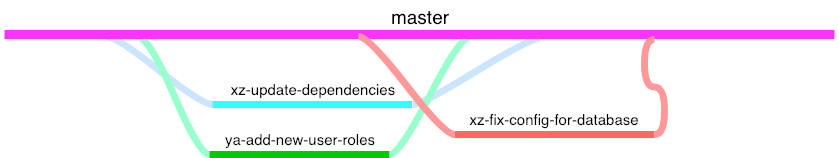
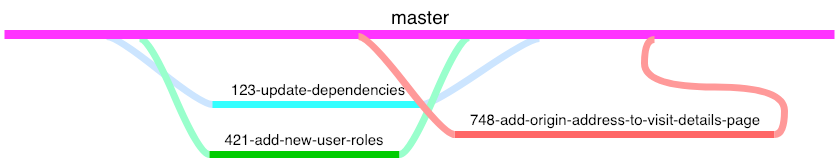
Add Out of Flow explanation

Changed region(s): [[0.2479, 0.2785, 0.6198, 1.0], [0.5578, 0.4304, 0.9607, 0.8861]]

diff --git a/resources/git_workflow.md b/resources/git_workflow.md
@@ -67,7 +67,7 @@ Where `dddd` stands for Story Card in Kanban Flow, check some examples of naming
 
 #### User Story task cards
 
-Then we pull a card to work on in `KanbanFlow`, we ignore number of it, then we create a branch with the following pattern using story branch as base:
+Then we pull a card to work on in `KanbanFlow`, we ignore its number, then we create a branch with the following pattern using story branch as base:
 
 * `xz-describe-what-will-be-done`
 
@@ -88,8 +88,34 @@ Note that you're able to open new branches and Pull Requests as you consider nec
 
 ### Out of Flow
 
+For this swimlane we pull a card to work on in `KanbanFlow`, considering its number, we'll always have a branch with the following pattern using `master` as base:
+
+* `dddd-description-of-task`
+
+Where `dddd` stands for card in Out of Flow swimlane in KanbanFlow. Check some examples of naming out of flow branches:
+
+* `842-fix-manual-visits-for-same-origin-and-destination`
+* `858-zoom-traveled-path-images-on-hover`
+* `829-add-origin-address-to-visit-details-page`
+
 #### Graph example
 
-![https://github.com/kmonline/guidelines/blob/master/images/user_story_flow.png](https://github.com/kmonline/guidelines/blob/master/images/out_of_flow_flow.png)
+![https://github.com/kmonline/guidelines/blob/master/images/out_of_flow_flow.png](https://github.com/kmonline/guidelines/blob/master/images/out_of_flow_flow.png)
+
+#### One Pull Request vs. One card
+
+In some cases one Pull Request won't be enough to reflect KanbanFlow card, in this case you can create this parent branch, then create child branch from it. Imagine that `829-add-origin-address-to-visit-details-page` requires more than one Pull Request, you can create a branch using it as base:
+
+* `xz-normalize-origin-address-for-visits`
+
+In the branch above, I've identified a step as requirement before develop my task and I can do that for the next one also:
+
+* `xz-add-origin-address-to-visit-details-page`
+
+In example above, we ended up opening two Pull Requests using `829-add-origin-address-to-visit-details-page` as base. Making easier to review our code.
+
+#### Graph example
+
+![https://github.com/kmonline/guidelines/blob/master/images/complex_out_of_flow_flow.png](https://github.com/kmonline/guidelines/blob/master/images/complex_out_of_flow_flow.png)
 
 ## Advancing to Test Phase
